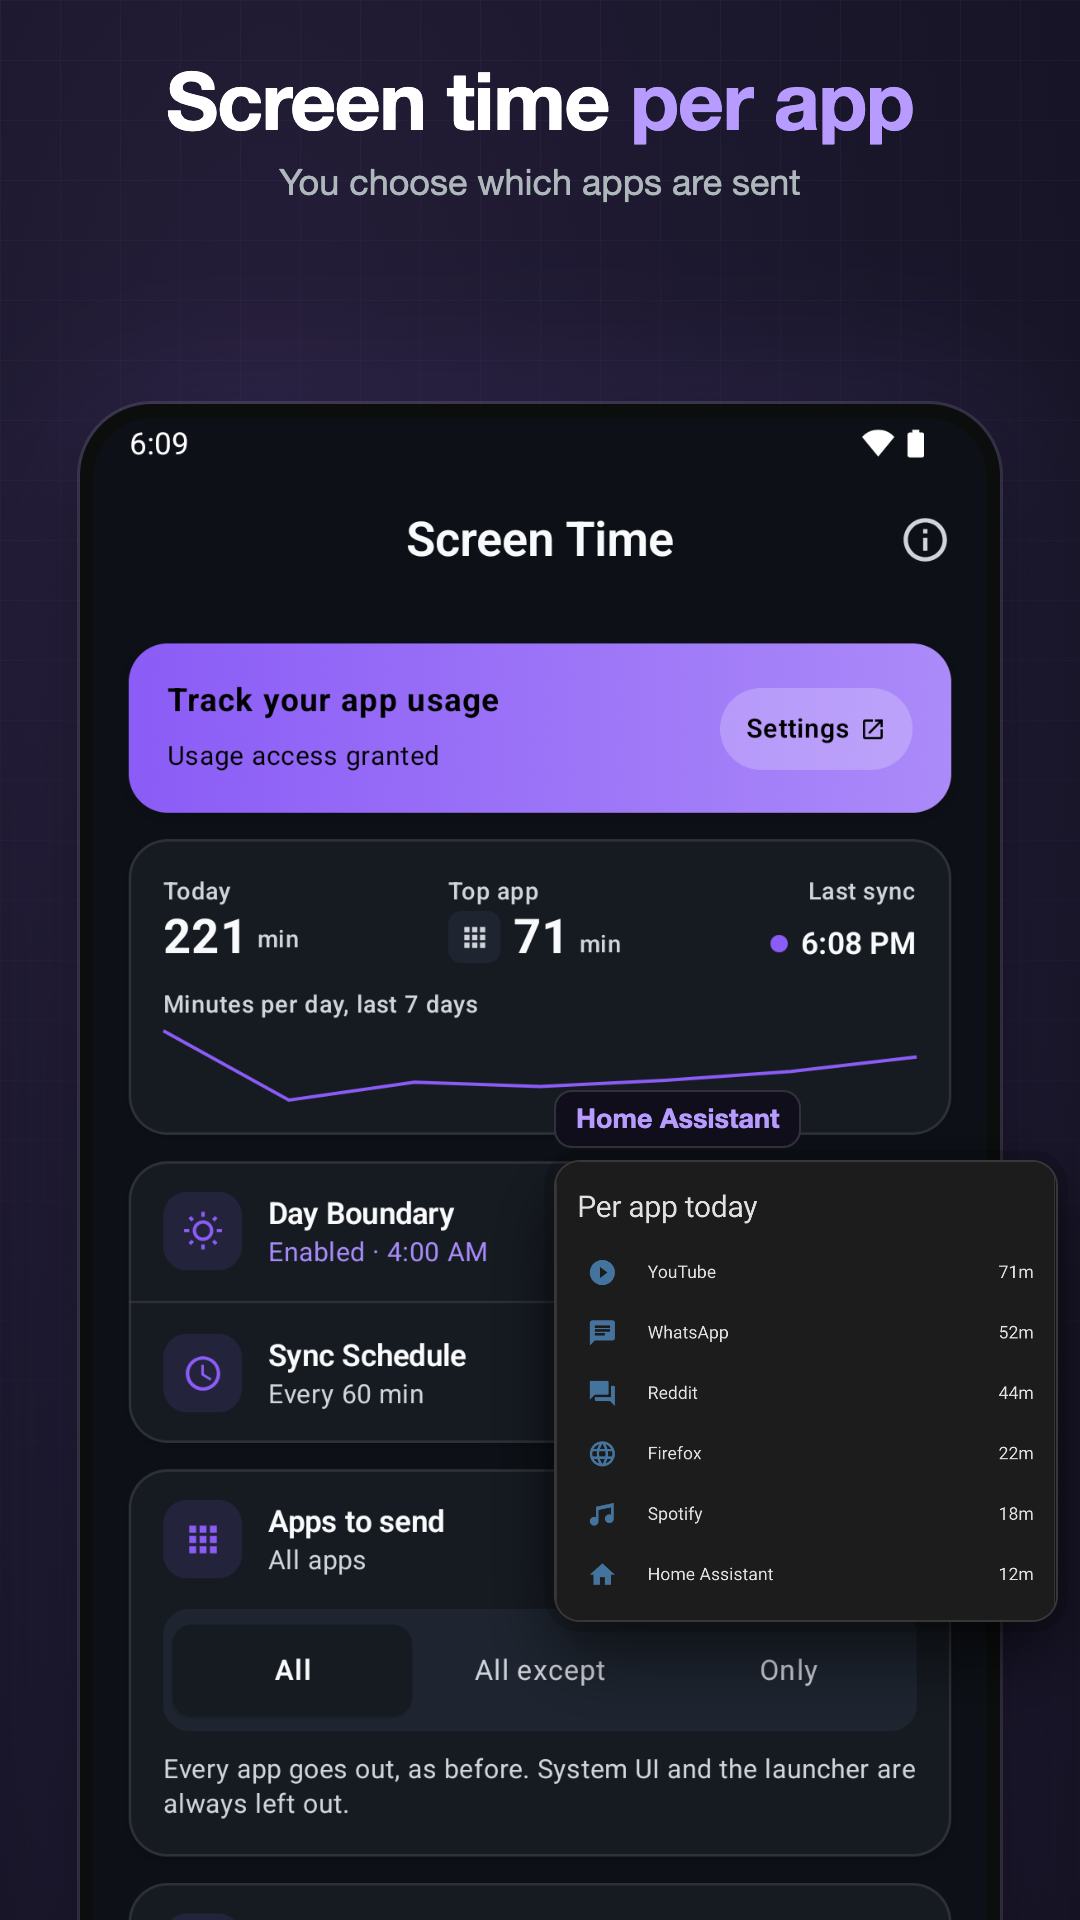
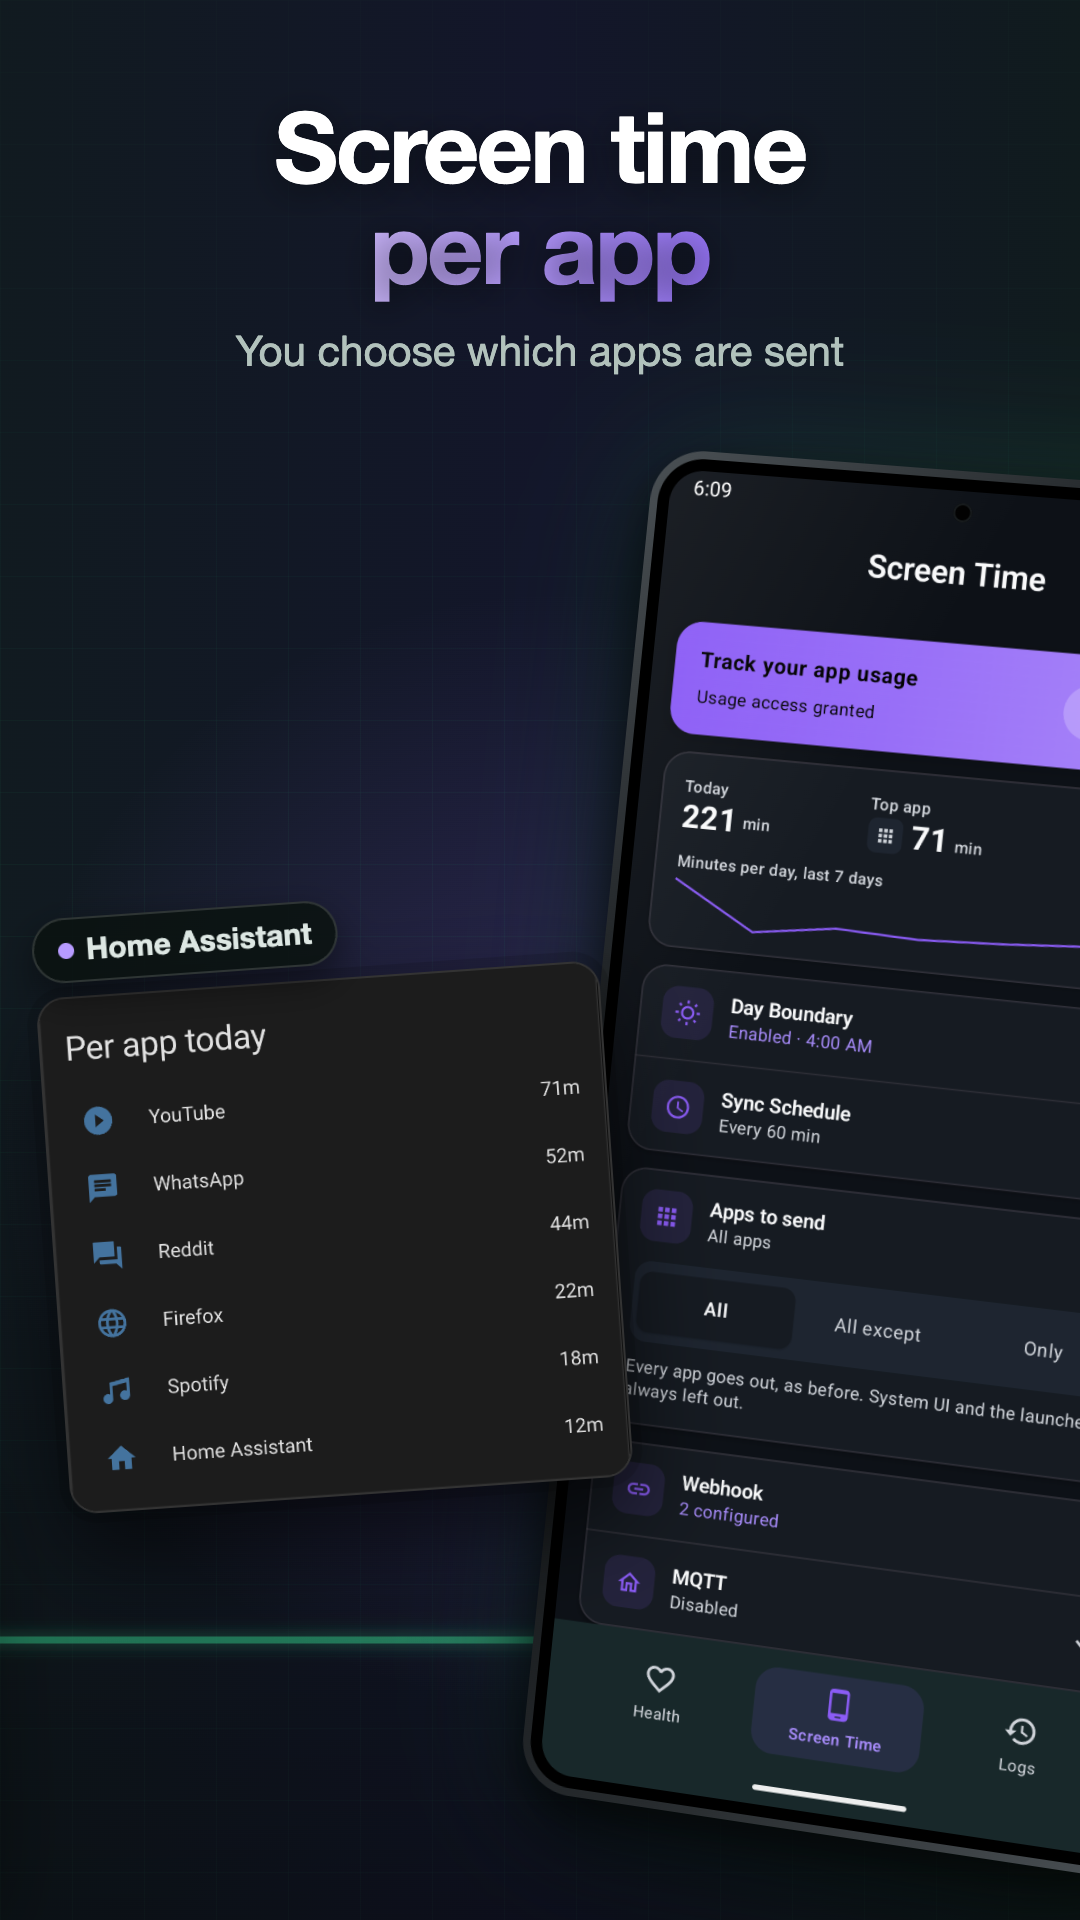
docs: The Play screenshots in a panorama of seven panels, also the fastlane store set
The same seven messages as the set of 17 October, in the dark panorama style of the iPhone App
Store set: Android phones, two of them leaning into the next panel, floating Home Assistant,
QR, screen time, stack, payload and Health Connect cards. Rendered from
docs/brand/play-panorama/panorama.html; render-store.sh now copies the panels into fastlane, so
F-Droid shows what Play will show. store-shot.html keeps the flat set for reference.

diff --git a/docs/brand/play-panorama/panorama.html b/docs/brand/play-panorama/panorama.html
@@ -1,0 +1,244 @@
+<!DOCTYPE html>
+<!--
+  Source for the Google Play phone screenshots in the panorama style: one wide composition of
+  seven 1080x1920 panels (7560x1920), rendered whole (panorama-en.png) and per panel (en-1.png
+  to en-7.png, panorama.html?panel=1 to ?panel=7) by docs/brand/play-panorama/render.sh.
+
+  One continuous background, a heartbeat line through all seven panels, and two phones that
+  lean well over into the next panel (losing only their right edge), so the row reads as one picture when swiping. Same
+  messages and order as the flat set (docs/brand/store-shot.html, agreed on 17 October).
+
+  Every phone screen is a real capture in docs/brand/store-src/ (see store-shot.html for where
+  they come from); nothing is drawn over the app. Floating cards are enlarged crops of those
+  captures, or of Home Assistant and the separate Life Dashboard Stack, labelled as such. The
+  webhook address with its secret on the Receive screen is left out by stacking the bands
+  above and below it, as store-shot.html does.
+
+  Play rules for the captions: no prices, rankings or calls to action, no other stores or
+  platforms, no Google logos, no medical claims. The app itself contains no AI: the stack
+  panel says the model is optional and runs on your own machine.
+
+  Same identity as the other brand files: heartbeat green #30B77E (purple #B79BFF for screen
+  time), the dark green-tinted ground and grid, "Helvetica Neue".
+-->
+<html>
+<head>
+<meta charset="utf-8">
+<style>
+  * { margin: 0; padding: 0; box-sizing: border-box; }
+  html, body { width: 7560px; height: 1920px; overflow: hidden; background: #0C1714; }
+  #stage {
+    position: absolute; left: 0; top: 0; width: 7560px; height: 1920px; overflow: hidden;
+    font-family: "Helvetica Neue", Helvetica, Arial, sans-serif; color: #fff;
+    background:
+      radial-gradient(700px 700px at 420px 1200px, rgba(48,183,126,0.20), transparent 70%),
+      radial-gradient(650px 650px at 1500px 1000px, rgba(48,183,126,0.13), transparent 70%),
+      radial-gradient(700px 700px at 2500px 1250px, rgba(48,183,126,0.15), transparent 70%),
+      radial-gradient(800px 800px at 3800px 1150px, rgba(155,120,255,0.20), transparent 70%),
+      radial-gradient(700px 700px at 4700px 1150px, rgba(48,183,126,0.15), transparent 70%),
+      radial-gradient(700px 700px at 5800px 1250px, rgba(48,183,126,0.15), transparent 70%),
+      radial-gradient(700px 700px at 7000px 1100px, rgba(48,183,126,0.17), transparent 70%),
+      linear-gradient(180deg, rgba(0,0,0,0) 55%, rgba(0,0,0,0.35) 100%),
+      linear-gradient(90deg, #11221D 0%, #0E1B18 20%, #101C1C 40%, #13162A 50%, #0F1D19 60%, #0E1A17 80%, #112019 100%);
+  }
+  .grid {
+    position: absolute; inset: 0; pointer-events: none;
+    background-image:
+      linear-gradient(rgba(48,183,126,0.055) 1px, transparent 1px),
+      linear-gradient(90deg, rgba(48,183,126,0.055) 1px, transparent 1px);
+    background-size: 72px 72px;
+    -webkit-mask-image: linear-gradient(to bottom, rgba(0,0,0,0.25) 0%, black 45%, rgba(0,0,0,0.5) 100%);
+  }
+  svg.pulse { position: absolute; left: 0; top: 0; }
+
+  /* Captions: a bold headline and a short subline at the top of each panel. */
+  .cap { position: absolute; top: 96px; width: 960px; text-align: center; }
+  .cap h1 {
+    font-size: 98px; font-weight: 800; line-height: 1.03; letter-spacing: -2.5px;
+    text-shadow: 0 6px 34px rgba(0,0,0,0.45);
+  }
+  .cap h1 em {
+    font-style: normal;
+    background: linear-gradient(90deg, #5BE3A6, #30B77E);
+    -webkit-background-clip: text; background-clip: text; color: transparent;
+  }
+  .cap.purple h1 em { background: linear-gradient(90deg, #CDB8FF, #9B78FF); -webkit-background-clip: text; background-clip: text; }
+  .cap p { margin: 26px auto 0; max-width: 900px; text-wrap: balance; font-size: 42px; line-height: 1.28; color: #B2C2BC; }
+
+  /* A generic Android phone: flat graphite band, thin even bezel, a punch-hole camera. */
+  .phone { position: absolute; transform-origin: 50% 40%; }
+  .phone .body {
+    position: relative; width: 100%; height: 100%; border-radius: var(--r);
+    background: linear-gradient(135deg, #4A5054 0%, #24282B 25%, #16191B 50%, #272B2E 75%, #4B5155 100%);
+    padding: var(--band);
+    box-shadow: 0 50px 100px rgba(0,0,0,0.6), 0 16px 40px rgba(0,0,0,0.5), 0 0 130px rgba(48,183,126,0.18);
+  }
+  .phone .bezel { width: 100%; height: 100%; border-radius: calc(var(--r) - var(--band)); background: #000; padding: var(--bezel); }
+  .phone .screen {
+    position: relative; width: 100%; height: 100%; overflow: hidden; background: #1B2421;
+    border-radius: calc(var(--r) - var(--band) - var(--bezel));
+    background-size: 100% 100%; background-repeat: no-repeat;
+  }
+  .phone .hole { position: absolute; left: 50%; transform: translateX(-50%); border-radius: 50%; background: #000;
+    box-shadow: inset 0 0 0 2px #15191B; }
+  .phone .btn { position: absolute; right: -5px; width: 7px; border-radius: 3px; background: linear-gradient(90deg, #4A5054, #1E2225); }
+  .phone .glare {
+    position: absolute; inset: 0; border-radius: calc(var(--r) - var(--band) - var(--bezel));
+    background: linear-gradient(115deg, rgba(255,255,255,0.06) 0%, rgba(255,255,255,0) 30%);
+  }
+
+  /* Floating cards: enlarged crops with a label saying where they come from. */
+  .float { position: absolute; }
+  .float .frame {
+    border-radius: 28px; overflow: hidden; background: #111;
+    border: 2px solid rgba(255,255,255,0.14);
+    box-shadow: 0 40px 90px rgba(0,0,0,0.6), 0 0 0 10px rgba(0,0,0,0.12);
+  }
+  .float .label {
+    display: inline-flex; align-items: center; gap: 12px; margin-bottom: 14px;
+    padding: 12px 24px; border-radius: 999px; white-space: nowrap;
+    font-size: 30px; font-weight: 700; color: #DDE7E3;
+    background: rgba(10,18,16,0.88); border: 2px solid rgba(255,255,255,0.14);
+    box-shadow: 0 14px 36px rgba(0,0,0,0.45);
+  }
+  .float .label small { font-weight: 500; color: #AEB8BC; }
+  .float .label i { width: 16px; height: 16px; border-radius: 50%; background: var(--dot, #41BDF5); display: inline-block; flex: none; }
+  .crop { background-repeat: no-repeat; }
+
+  .badge {
+    position: absolute; display: flex; align-items: center; gap: 22px;
+    padding: 26px 40px 26px 28px; border-radius: 999px; white-space: nowrap;
+    background: linear-gradient(135deg, rgba(48,183,126,0.96), rgba(32,140,95,0.96));
+    color: #04140D; box-shadow: 0 34px 80px rgba(0,0,0,0.55), 0 0 80px rgba(48,183,126,0.45);
+  }
+  .badge b { display: block; font-size: 50px; font-weight: 800; letter-spacing: -1px; line-height: 1; }
+  .badge small { display: block; margin-top: 6px; font-size: 28px; font-weight: 600; opacity: 0.8; }
+</style>
+</head>
+<body>
+<div id="stage">
+  <div class="grid"></div>
+  <svg class="pulse" width="7560" height="1920" viewBox="0 0 7560 1920">
+    <defs>
+      <filter id="glow" x="-5%" y="-50%" width="110%" height="200%">
+        <feGaussianBlur stdDeviation="8" result="b"/>
+        <feMerge><feMergeNode in="b"/><feMergeNode in="SourceGraphic"/></feMerge>
+      </filter>
+      <linearGradient id="fade" x1="0" x2="1" y1="0" y2="0">
+        <stop offset="0" stop-color="#30B77E" stop-opacity="0.15"/>
+        <stop offset="0.5" stop-color="#30B77E" stop-opacity="0.55"/>
+        <stop offset="1" stop-color="#30B77E" stop-opacity="0.2"/>
+      </linearGradient>
+    </defs>
+    <path id="beat" fill="none" stroke="url(#fade)" stroke-width="7" stroke-linecap="round" stroke-linejoin="round" filter="url(#glow)"/>
+  </svg>
+  <div id="items"></div>
+</div>
+
+<script>
+const W = 1080, H = 1920, SRC = "../store-src/";
+
+// The heartbeat: a flat line through every panel with a beat between the phones.
+(function () {
+  const y = 1640, beats = [460, 2900, 4150, 6000, 7150];
+  let d = `M -20 ${y}`;
+  for (const x of beats) d += ` L ${x - 90} ${y} L ${x - 60} ${y - 100} L ${x - 15} ${y + 150} L ${x + 25} ${y - 45} L ${x + 55} ${y}`;
+  d += ` L 7580 ${y}`;
+  document.getElementById("beat").setAttribute("d", d);
+})();
+
+// A phone of outer width w at (x, y). `screen` is a capture, or [capture, bands] to stack
+// horizontal bands of it, leaving out a band that holds a secret.
+function phone(screen, x, y, w, transform = "", z = 2) {
+  const band = Math.round(w * 0.012), bezel = Math.round(w * 0.018);
+  const sw = w - 2 * band - 2 * bezel, sh = Math.round(sw * 2400 / 1080);
+  const h = sh + 2 * band + 2 * bezel, r = Math.round(w * 0.085), k = sw / 1080;
+  let inner, bg = "";
+  if (typeof screen === "string") bg = `background-image:url(${screen})`;
+  else inner = screen[1].map(([y0, y1]) => crop(screen[0], 1080, [0, y0, 1080, y1 - y0], sw)).join("");
+  const hole = `<div class="hole" style="top:${Math.round(22 * k)}px;width:${Math.round(34 * k)}px;height:${Math.round(34 * k)}px"></div>`;
+  const btns = `<div class="btn" style="top:${Math.round(h * 0.2)}px;height:${Math.round(h * 0.09)}px"></div>` +
+    `<div class="btn" style="top:${Math.round(h * 0.33)}px;height:${Math.round(h * 0.05)}px"></div>`;
+  return `<div class="phone" style="left:${x}px;top:${y}px;width:${w}px;height:${h}px;transform:${transform};z-index:${z};` +
+    `--r:${r}px;--band:${band}px;--bezel:${bezel}px">${btns}<div class="body"><div class="bezel">` +
+    `<div class="screen" style="${bg}">${inner || ""}${hole}<div class="glare"></div></div></div></div></div>`;
+}
+
+// A crop of an image: rect [x, y, w, h] in its pixels, shown `width` wide.
+function crop(src, srcW, rect, width) {
+  const [x, y, w, h] = rect, k = width / w;
+  return `<div class="crop" style="width:${width}px;height:${Math.round(h * k)}px;background-image:url(${src});` +
+    `background-size:${Math.round(srcW * k)}px auto;background-position:${-Math.round(x * k)}px ${-Math.round(y * k)}px"></div>`;
+}
+
+function float(html, x, y, { label, dot, rotate = 0, z = 5, bg } = {}) {
+  return `<div class="float" style="left:${x}px;top:${y}px;transform:rotate(${rotate}deg);z-index:${z};${dot ? `--dot:${dot}` : ""}">` +
+    (label ? `<div class="label"><i></i>${label}</div>` : "") +
+    `<div class="frame" style="${bg ? `background:${bg}` : ""}">${html}</div></div>`;
+}
+
+function caption(n, h, p, cls = "") {
+  return `<div class="cap ${cls}" style="left:${(n - 1) * W + 60}px"><h1>${h}</h1><p>${p}</p></div>`;
+}
+
+const tilt = (rz, ry = 0) => `perspective(2600px) rotateY(${ry}deg) rotate(${rz}deg)`;
+const shield = `<svg width="76" height="76" viewBox="0 0 24 24" fill="none" stroke="#04140D" stroke-width="2.2" stroke-linecap="round" stroke-linejoin="round"><path d="M12 2.5l8 3v6c0 5-3.4 8.6-8 10-4.6-1.4-8-5-8-10v-6z"/><path d="M8.3 12.2l2.6 2.6 4.9-5.2"/></svg>`;
+const X = (n, lx) => (n - 1) * W + lx;
+const items = [];
+
+// 1. Health Connect to your own server
+items.push(caption(1, `Health Connect to<br><em>your own server</em>`, `Home Assistant, MQTT or your own webhook`));
+// The phone leans well over into panel 2; only its right edge, chevrons and buttons, goes.
+items.push(phone(SRC + "A1-health.png", X(1, 610), 470, 640, tilt(6, -8), 4));
+items.push(float(crop(SRC + "H1-today.png", 1082, [18, 296, 1046, 318], 660),
+  X(1, 40), 960, { label: "Home Assistant", rotate: -3, z: 6 }));
+
+// 2. Pair with one QR code
+items.push(caption(2, `Pair with<br><em>one QR code</em>`, `No account, no YAML, no broker`));
+items.push(phone(SRC + "A2-pair.png", X(2, 400), 480, 620, tilt(-4, 10)));
+items.push(float(crop(SRC + "H2-qr.png", 1082, [62, 232, 848, 848], 400),
+  X(2, 150), 1220, { label: "Home Assistant", rotate: -5, z: 6 }));
+
+// 3. Up to a year of history
+items.push(caption(3, `Up to a year<br><em>of history</em>`, `Each day on its own date in Home Assistant`));
+items.push(phone(SRC + "A3-backfill.png", X(3, 60), 480, 640, tilt(-5, 8)));
+items.push(float(crop(SRC + "H3-history.png", 1082, [20, 296, 1044, 735], 600),
+  X(3, 440), 1390, { label: "Home Assistant", rotate: -3, z: 6 }));
+
+// 4. Screen time per app
+items.push(caption(4, `Screen time<br><em>per app</em>`, `You choose which apps are sent`, "purple"));
+// The phone leans well over into panel 5.
+items.push(phone(SRC + "A4-screen-time.png", X(4, 590), 470, 640, tilt(6, -8), 4));
+items.push(float(crop(SRC + "H4-apps.png", 1082, [20, 468, 1042, 954], 560),
+  X(4, 50), 900, { label: "Home Assistant", dot: "#B79BFF", rotate: -4, z: 6 }));
+
+// 5. Your history for your own AI, through the separate stack
+items.push(caption(5, `Your history, for<br><em>your own AI</em>`, `Optional: the separate Life Dashboard Stack, with a model on your own machine`));
+items.push(phone(SRC + "A5-webhook.png", X(5, 400), 520, 600, tilt(-5, 10)));
+items.push(float(crop(SRC + "S5-chat.png", 1082, [24, 190, 1040, 500], 640),
+  X(5, 110), 1180, { label: "Life Dashboard Stack <small>on your own server</small>", dot: "#30B77E", rotate: -3, z: 6 }));
+
+// 6. Edits and deletions are sent too
+items.push(caption(6, `Edits and deletions<br><em>are sent too</em>`, `Signed JSON for n8n, Node-RED or your scripts`));
+items.push(phone(SRC + "A6-payload.png", X(6, 60), 480, 620, tilt(-5, 8)));
+items.push(float(crop(SRC + "A6-payload.png", 1080, [160, 1018, 840, 190], 560),
+  X(6, 460), 1050, { label: "Deleted, in the payload", dot: "#E06C75", rotate: -3, z: 6 }));
+items.push(`<div class="badge" style="left:${X(6, 560)}px;top:1420px;transform:rotate(4deg);z-index:6">${shield}<div><b>Signed</b><small>HMAC-SHA256</small></div></div>`);
+
+// 7. Scale readings into Health Connect
+items.push(caption(7, `Scale readings into<br><em>Health Connect</em>`, `Weight and blood pressure from Home Assistant`));
+items.push(phone([SRC + "A7-receive.png", [[0, 665], [855, 2400]]], X(7, 400), 480, 640, tilt(5, -10)));
+items.push(float(crop(SRC + "A7-hc-weight.png", 1080, [30, 500, 1020, 560], 560),
+  X(7, 40), 1150, { label: "Health Connect", dot: "#30B77E", rotate: -4, z: 6 }));
+
+document.getElementById("items").innerHTML = items.join("");
+
+// ?panel=n shows one 1080-wide panel of the panorama.
+const panel = +(new URLSearchParams(location.search).get("panel") || 0);
+if (panel) {
+  document.documentElement.style.width = document.body.style.width = W + "px";
+  document.getElementById("stage").style.transform = `translateX(${-(panel - 1) * W}px)`;
+}
+</script>
+</body>
+</html>

diff --git a/docs/brand/play-panorama/contact-sheet.html b/docs/brand/play-panorama/contact-sheet.html
@@ -1,0 +1,21 @@
+<!DOCTYPE html>
+<!-- The seven rendered panels (en-1.png to en-7.png) side by side, for a quick review. render.sh
+     renders it to contact-sheet.png at 2172x578. -->
+<html>
+<head>
+<meta charset="utf-8">
+<style>
+  * { margin: 0; padding: 0; box-sizing: border-box; }
+  html, body { width: 2172px; height: 578px; overflow: hidden; background: #E9ECEB; }
+  .row { display: flex; gap: 20px; padding: 40px 46px; }
+  img { width: 280px; height: 498px; border-radius: 22px; display: block;
+        box-shadow: 0 10px 30px rgba(0,0,0,0.25); }
+</style>
+</head>
+<body>
+<div class="row">
+  <img src="en-1.png" alt=""><img src="en-2.png" alt=""><img src="en-3.png" alt=""><img src="en-4.png" alt="">
+  <img src="en-5.png" alt=""><img src="en-6.png" alt=""><img src="en-7.png" alt="">
+</div>
+</body>
+</html>
